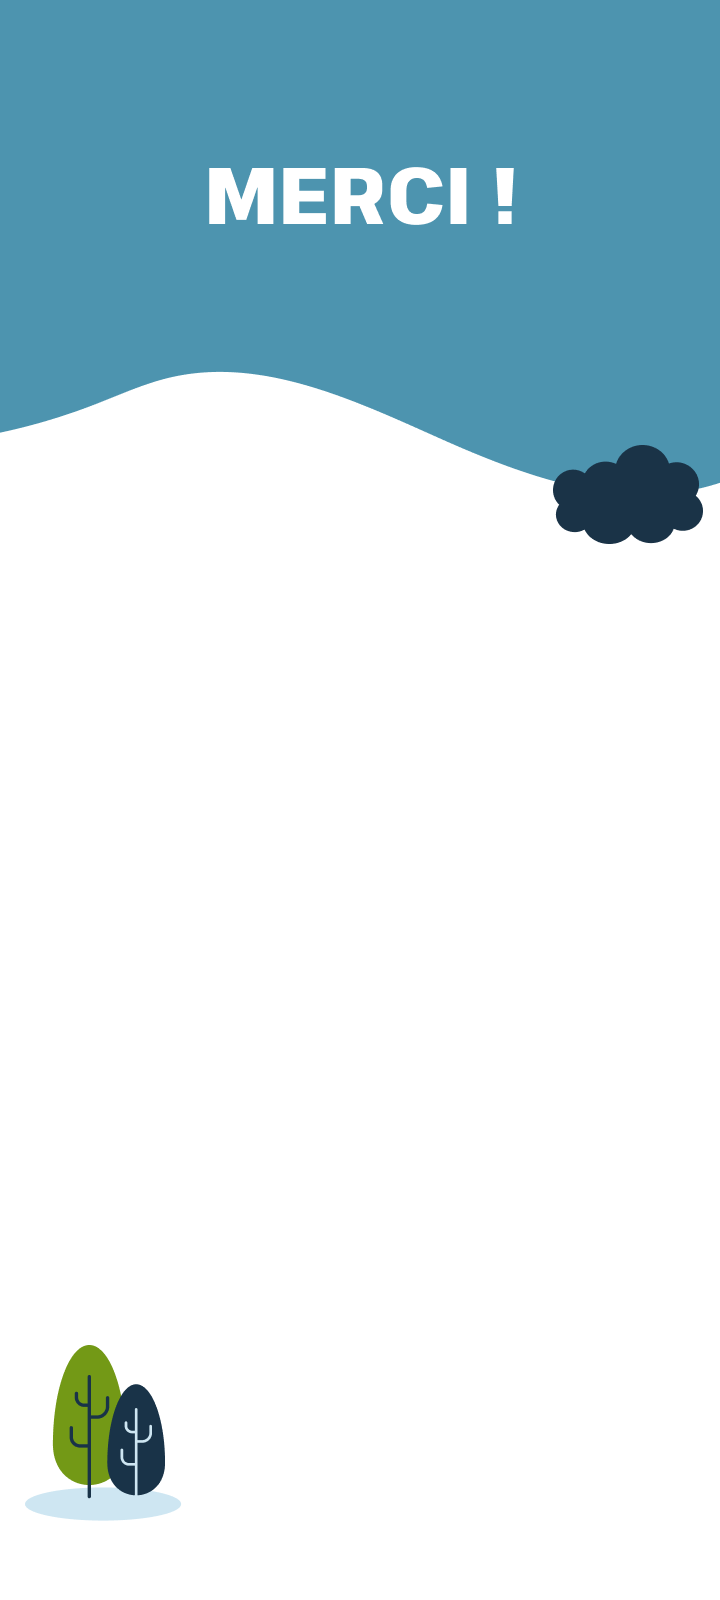
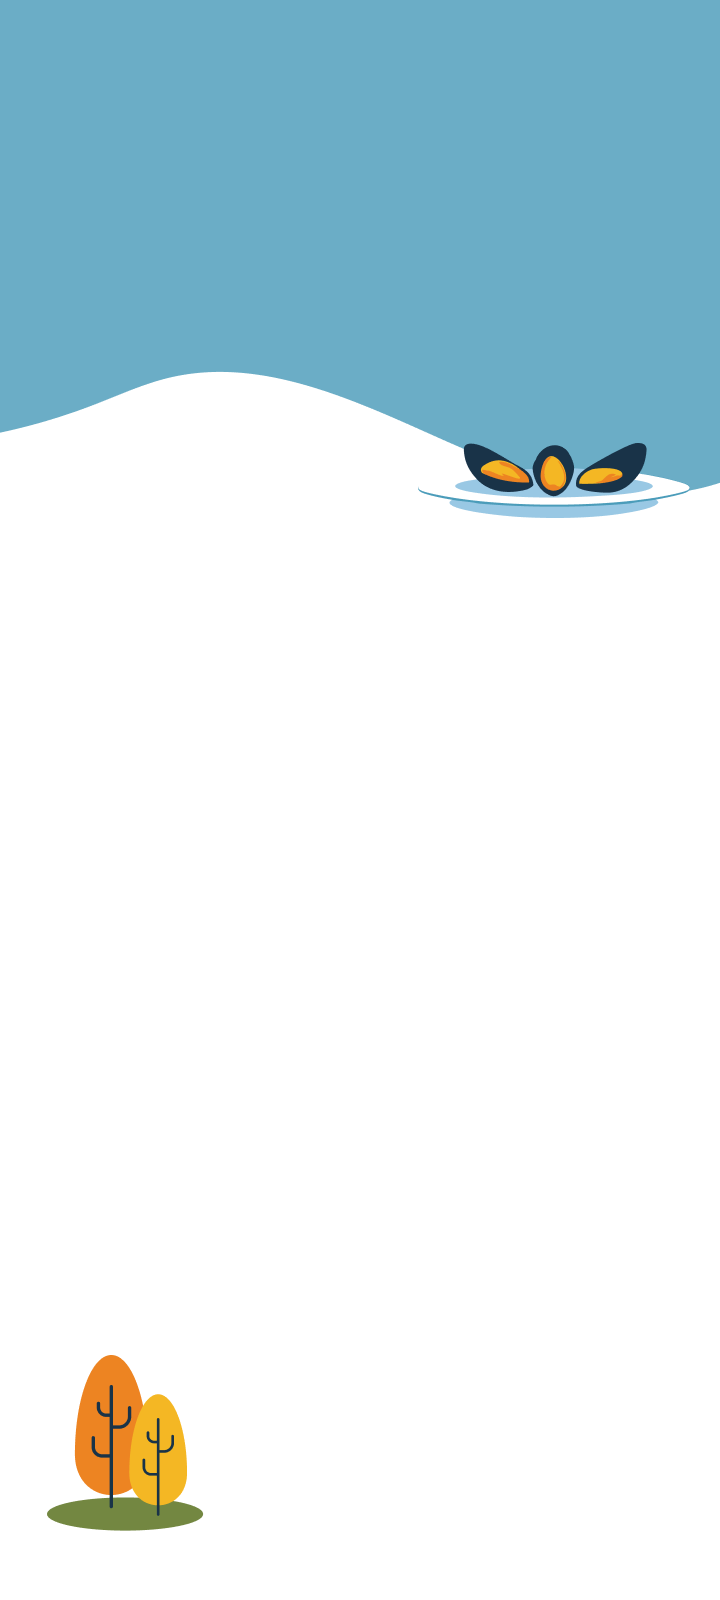
refactor: simplify FinalPage layout and enhance styling for better user experience

Changed region(s): [[0.0, 0.0, 1.0, 0.3438], [0.0306, 0.8438, 0.275, 0.9688]]

diff --git a/lavoixdunord/frontend/src/finalPage/finalPage.css b/lavoixdunord/frontend/src/finalPage/finalPage.css
@@ -1,103 +1,4 @@
 .background_final {
     background: url('finalPage.png');
-    background-size: auto 100%;
-    background-position: center; 
-    background-repeat: no-repeat; 
-    width: 100%; 
-    height: 100%; 
-    
-    display: flex;
-    flex-direction: column;
-    justify-content: center;
-    align-items: center;
-    min-height: 100vh;
-    width: 350px;
-    margin-inline: auto;
-    font-family: "Work Sans";
-}
-
-.container1 {
-    background-color: white;
-    padding: 1px;
-    text-align: center;
-    margin-top: 220px;
-    margin-inline: 16px;
-    width: 250px;
-}
-
-
-.container1 p {
-    font-size: 12px;
-    line-height: 1.5;
-    color: #1A3347;
-    margin: 1px;
-
-}
-
-.button_réessayer {
-    margin-top: 20px;
-    padding: 8px 40px;
-    margin-bottom: 20px;
-
-    border: #1A3347;
-    border-radius: 50px;
-    border-style: solid;
-    border-width: 1px;
-
-    font-size: 7px;
-    box-shadow: 0px 4px 6px rgba(0, 0, 0, 0.1);
-    color: #1A3347;
-    background-color: #ffffff; /* Couleur bleue */
-
-    cursor: pointer;
-    justify-content: center;
-}
-
-.button_réessayer:hover {
-    background-color: #1A3347; /* Couleur bleue plus foncée au survol */
-    color: white;
-}
-
-
-
-.container2 {
-    background-color: white;
-    padding: 1px;
-    text-align: center;
-    margin-top: 5px;
-    margin-inline: 16px;
-    width: 220px;
-}
-
-
-.container2 p {
-    font-size: 9px;
-    line-height: 1.5;
-    color: #1A3347;
-    margin: 1px;
-
-}
-
-.button_partager {
-    margin-top: 20px;
-    padding: 8px 40px;
-    margin-bottom: 50px;
-
-    border: #1A3347;
-    border-radius: 50px;
-    border-style: solid;
-    border-width: 1px;
-
-    font-size: 7px;
-    box-shadow: 0px 4px 6px rgba(0, 0, 0, 0.1);
-    color: #1A3347;
-    background-color: #ffffff; /* Couleur bleue */
-
-    cursor: pointer;
-    justify-content: center;
-}
-
-.button_partager:hover {
-    background-color: #1A3347; /* Couleur bleue plus foncée au survol */
-    color: white;
+    background-size: 100% 100%;
 }

diff --git a/lavoixdunord/frontend/src/finalPage/finalPage.js b/lavoixdunord/frontend/src/finalPage/finalPage.js
@@ -4,20 +4,24 @@ import { useNavigate } from "react-router-dom";
 
 const FinalPage = () => {
     const navigate = useNavigate(); // Initialisation de navigate
-    
+
     return (
         <div className="background_final">
-            <div className="container1">
-                <p><i><b>Merci d’avoir participé à cette aventure unique. </b></i></p>
-                <p> À bientôt pour de nouveaux défis, et souvenez-vous : </p>
-                <p><i><b>  La route du savoir est aussi passionnante que celle des cyclistes.</b></i></p>
-            </div>
-            <button className="button_réessayer" onClick={() => navigate('/')}><b>RÉESSAYER</b></button>
+            <div className="text-center p-4 mt-84">
+                <h1 className="text-white mb-5">MERCI</h1>
+                <div className='my-5'>&nbsp;</div>
+                <div className="fs-6">
+                    <p><i><b>Merci d’avoir participé à cette aventure unique. </b></i></p>
+                    <p> À bientôt pour de nouveaux défis, et souvenez-vous : </p>
+                    <p><i><b>  La route du savoir est aussi passionnante que celle des cyclistes.</b></i></p>
+                </div>
 
-            <div className="container2">
+                <button className="btn btn-outline-primary fw-bold my-2" onClick={() => navigate("/")}>RÉESSAYER</button>
+
                 <p><i><b>Partagez ce jeu avec vos proches !</b></i></p>
+                <button className="btn btn-outline-info fw-bold my-2" onClick={() => navigate("/")}>PARTAGER</button>
+
             </div>
-            <button className="button_partager" onClick={() => navigate('/')}><b>PARTAGER</b></button>
 
         </div>
     );

diff --git a/lavoixdunord/frontend/src/NavBarComponent/NavBarComponent.js b/lavoixdunord/frontend/src/NavBarComponent/NavBarComponent.js
@@ -11,8 +11,7 @@ const NavBarComponent = () => {
     const location = useLocation();
 
     React.useEffect(() => {
-        if (location.pathname === '/'
-            || location.pathname === '/credit') {
+        if (location.pathname === '/') {
             setShow(false);
         } else {
             setShow(true);
@@ -46,9 +45,9 @@ const NavBarComponent = () => {
             case '/difficulty':
                 return '';
             case '/credit':
-                return 'Crédits';
+                return '';
             case '/final':
-                return 'Fin';
+                return '';
             default:
                 return '';
         }
